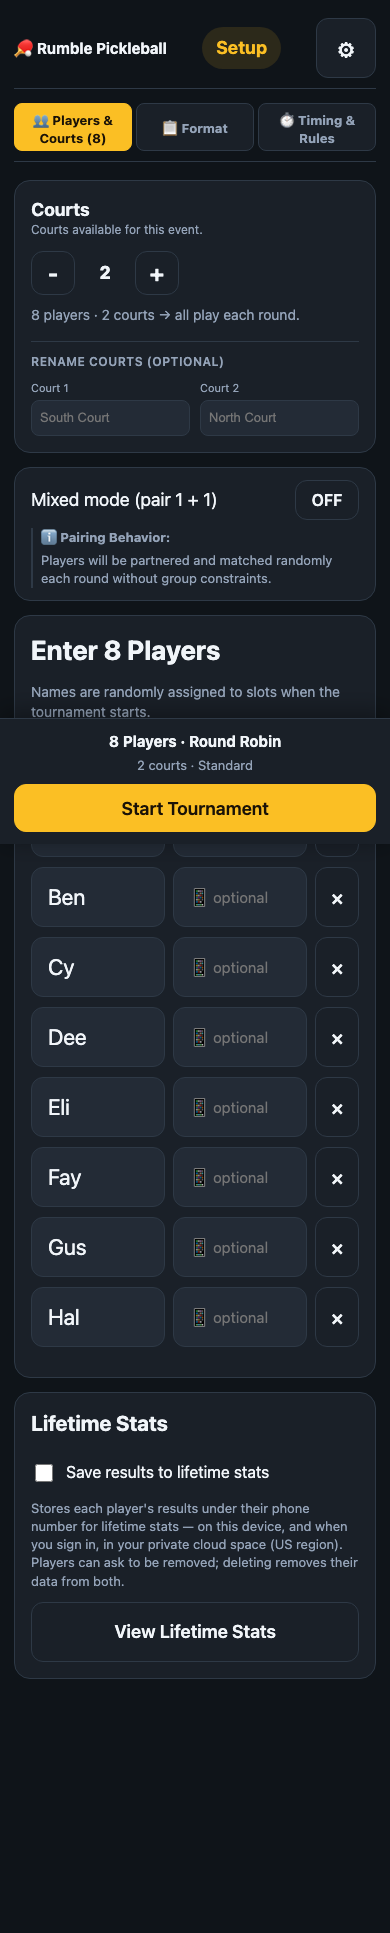
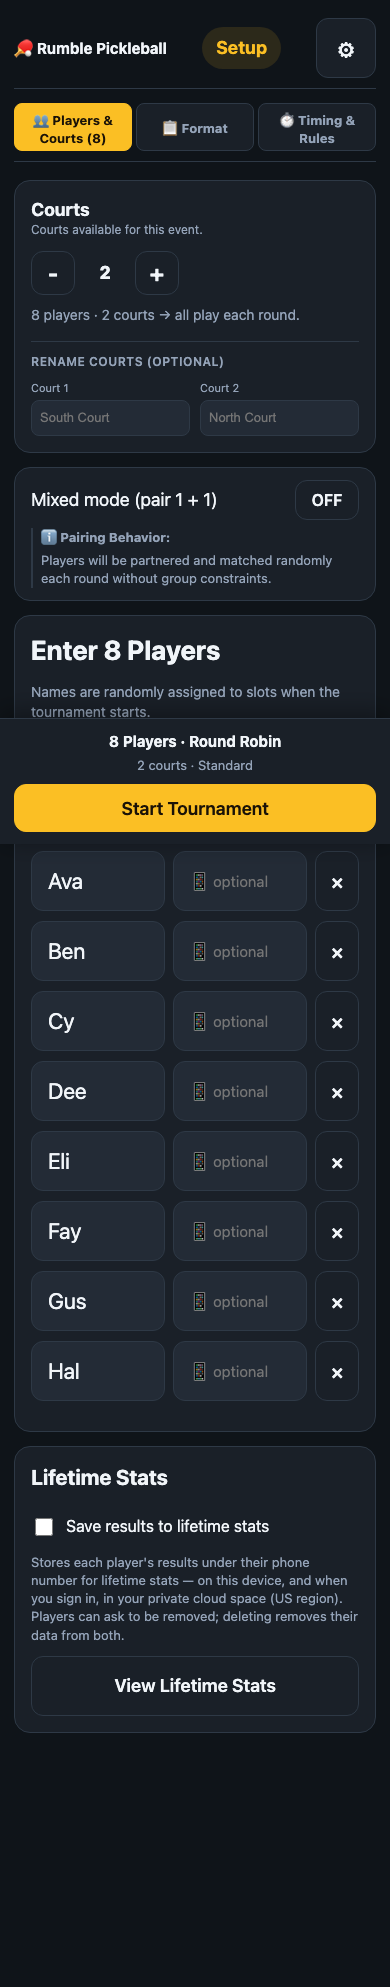
feat: implement Roster Manager tool with Club List and Saved Groups templates (#33)

diff --git a/index.html b/index.html
@@ -10494,6 +10494,286 @@ function parsePastedNames(text, count) {
   setTimeout(() => textarea.focus(), 0);
 }
 
+function openRosterManagerModal() {
+  const bg = el("div", { class: "modal-bg" });
+  const close = () => { bg.remove(); };
+  bg.addEventListener("click", e => { if (e.target === bg) close(); });
+
+  const modal = el("div", {
+    class: "modal",
+    style: "max-width: 420px; width: 90%; display: flex; flex-direction: column; max-height: 80vh; padding: 20px; box-sizing: border-box;"
+  });
+
+  const header = el("div", { style: "display:flex; align-items:center; justify-content:space-between; margin-bottom:16px;" },
+    el("h2", { style: "margin:0; font-size:18px;" }, "Roster Manager"),
+    el("button", {
+      style: "background:transparent; border:none; color:var(--muted); font-size:22px; cursor:pointer; padding:0; line-height:1;",
+      onclick: close
+    }, "×")
+  );
+  modal.appendChild(header);
+
+  let activeTab = "club";
+  const tabsContainer = el("div", { class: "setup-tabs", style: "margin-bottom:16px; padding:2px; height:38px;" });
+  
+  const clubTabBtn = el("button", { class: "setup-tab-btn active", style: "font-size:13px;" }, "Club List");
+  const groupsTabBtn = el("button", { class: "setup-tab-btn", style: "font-size:13px;" }, "Saved Groups");
+  
+  tabsContainer.appendChild(clubTabBtn);
+  tabsContainer.appendChild(groupsTabBtn);
+  modal.appendChild(tabsContainer);
+
+  const contentArea = el("div", { style: "flex:1; overflow-y:auto; min-height: 250px; display:flex; flex-direction:column;" });
+  modal.appendChild(contentArea);
+
+  const ledger = LifetimeStore.getLedger();
+  const playersMap = ledger.players || {};
+  const playersList = Object.values(playersMap).map(p => {
+    return { phoneKey: p.phoneKey, displayName: p.displayName || p.phoneKey };
+  }).sort((a, b) => a.displayName.localeCompare(b.displayName));
+
+  const checkedKeys = new Set();
+  
+  state.rawNames.forEach((name, idx) => {
+    if (name && name.trim()) {
+      const phone = state.rawPhones[idx] || "";
+      const match = playersList.find(p => {
+        if (phone && p.phoneKey === phone) return true;
+        return p.displayName.toLowerCase() === name.trim().toLowerCase();
+      });
+      if (match) checkedKeys.add(match.phoneKey);
+    }
+  });
+
+  let searchQuery = "";
+
+  function drawContent() {
+    contentArea.innerHTML = "";
+
+    if (activeTab === "club") {
+      clubTabBtn.classList.add("active");
+      groupsTabBtn.classList.remove("active");
+
+      const searchInput = el("input", {
+        type: "text",
+        placeholder: "Search players...",
+        value: searchQuery,
+        style: "width:100%; min-height:36px; font-size:13px; background:var(--panel-2); color:var(--text); border:1px solid var(--border); border-radius:8px; padding:4px 10px; margin-bottom:12px; box-sizing:border-box;"
+      });
+      searchInput.addEventListener("input", () => {
+        searchQuery = searchInput.value;
+        drawListOnly();
+      });
+      contentArea.appendChild(searchInput);
+
+      const listContainer = el("div", { style: "flex:1; overflow-y:auto; display:flex; flex-direction:column; gap:6px; margin-bottom:12px; max-height:220px;" });
+      contentArea.appendChild(listContainer);
+
+      const countBadge = el("div", { style: "font-size:12px; color:var(--muted); margin-bottom:8px; text-align:right; font-weight:600;" }, `Selected: ${checkedKeys.size} players`);
+      contentArea.appendChild(countBadge);
+
+      const loadBtn = el("button", {
+        style: "width:100%; min-height:40px; font-weight:700; font-size:14px; background:var(--accent); color:#1a1207; border:none; border-radius:8px; cursor:pointer;"
+      }, `Load Selected (${checkedKeys.size})`);
+      
+      loadBtn.addEventListener("click", () => {
+        const count = checkedKeys.size;
+        if (count < 4 || count > 24) {
+          showToast("Select between 4 and 24 players.");
+          return;
+        }
+        state.rawNames = [];
+        state.rawPhones = [];
+        state.rawGroups = [];
+        playersList.forEach(p => {
+          if (checkedKeys.has(p.phoneKey)) {
+            state.rawNames.push(p.displayName);
+            state.rawPhones.push(p.phoneKey !== p.displayName ? p.phoneKey : "");
+            state.rawGroups.push("a");
+          }
+        });
+        setSetupRosterCount(count);
+        save();
+        close();
+        render();
+        showToast(`Loaded ${count} players from Club List.`);
+      });
+      contentArea.appendChild(loadBtn);
+
+      function drawListOnly() {
+        listContainer.innerHTML = "";
+        const query = searchQuery.toLowerCase().trim();
+        const filtered = playersList.filter(p => p.displayName.toLowerCase().includes(query));
+
+        if (filtered.length === 0) {
+          listContainer.appendChild(el("div", { style: "text-align:center; padding:24px; color:var(--muted); font-size:13px; font-style:italic;" },
+            playersList.length === 0 ? "No players in career history yet. Save a tournament to build your club roster." : "No players match your search."
+          ));
+          return;
+        }
+
+        filtered.forEach(p => {
+          const row = el("label", {
+            style: "display:flex; align-items:center; gap:10px; background:var(--panel); border:1px solid var(--border); border-radius:8px; padding:10px 12px; cursor:pointer; margin-bottom:4px;"
+          });
+          
+          const chk = el("input", {
+            type: "checkbox",
+            style: "width:16px; height:16px; accent-color:var(--accent);"
+          });
+          if (checkedKeys.has(p.phoneKey)) chk.setAttribute("checked", "checked");
+          
+          chk.addEventListener("change", () => {
+            if (chk.checked) checkedKeys.add(p.phoneKey);
+            else checkedKeys.delete(p.phoneKey);
+            countBadge.textContent = `Selected: ${checkedKeys.size} players`;
+            loadBtn.textContent = `Load Selected (${checkedKeys.size})`;
+          });
+
+          row.appendChild(chk);
+          
+          const labelInfo = el("div", { style: "flex:1; display:flex; flex-direction:column;" });
+          labelInfo.appendChild(el("div", { style: "font-size:13px; font-weight:600; color:var(--text);" }, p.displayName));
+          if (p.phoneKey !== p.displayName) {
+            labelInfo.appendChild(el("div", { style: "font-size:11px; color:var(--muted);" }, p.phoneKey));
+          }
+          row.appendChild(labelInfo);
+          listContainer.appendChild(row);
+        });
+      }
+
+      drawListOnly();
+
+    } else {
+      clubTabBtn.classList.remove("active");
+      groupsTabBtn.classList.add("active");
+
+      let groups = [];
+      try {
+        groups = JSON.parse(localStorage.getItem("rumble_saved_roster_groups")) || [];
+      } catch {
+        groups = [];
+      }
+
+      const saveForm = el("div", { style: "background:var(--panel-2); border:1px solid var(--border); border-radius:8px; padding:12px; margin-bottom:16px;" });
+      saveForm.appendChild(el("h4", { style: "margin:0 0 8px; font-size:12px; font-weight:700; color:var(--text); text-transform:uppercase; letter-spacing:0.5px;" }, "Save Current Roster"));
+      
+      const saveRow = el("div", { style: "display:flex; gap:8px;" });
+      const nameInput = el("input", {
+        type: "text",
+        placeholder: "Roster Name (e.g. Tuesday League)",
+        style: "flex:1; min-height:36px; font-size:13px; background:var(--panel); color:var(--text); border:1px solid var(--border); border-radius:8px; padding:4px 8px; box-sizing: border-box;"
+      });
+      const saveBtn = el("button", {
+        style: "min-height:36px; background:var(--accent); color:#1a1207; border:none; border-radius:8px; font-weight:700; font-size:12px; padding:0 12px; cursor:pointer;"
+      }, "Save");
+      
+      saveBtn.addEventListener("click", () => {
+        const gName = nameInput.value.trim();
+        if (!gName) {
+          showToast("Please enter a roster name.");
+          return;
+        }
+        
+        const activePlayersCount = setupRosterCount();
+        const playersToSave = [];
+        for (let i = 0; i < activePlayersCount; i++) {
+          playersToSave.push({
+            name: state.rawNames[i] || "",
+            phone: state.rawPhones[i] || "",
+            group: state.rawGroups[i] || "a"
+          });
+        }
+
+        const newGroup = {
+          id: "group_" + Date.now(),
+          name: gName,
+          players: playersToSave
+        };
+        
+        groups.push(newGroup);
+        localStorage.setItem("rumble_saved_roster_groups", JSON.stringify(groups));
+        drawContent();
+        showToast(`Saved current roster as "${gName}".`);
+      });
+
+      saveRow.appendChild(nameInput);
+      saveRow.appendChild(saveBtn);
+      saveForm.appendChild(saveRow);
+      contentArea.appendChild(saveForm);
+
+      const listContainer = el("div", { style: "flex:1; overflow-y:auto; display:flex; flex-direction:column; gap:8px; max-height:180px;" });
+      contentArea.appendChild(listContainer);
+
+      if (groups.length === 0) {
+        listContainer.appendChild(el("div", { style: "text-align:center; padding:32px; color:var(--muted); font-size:13px; font-style:italic;" },
+          "No saved rosters yet. Type a name above to save your Tuesday or Thursday roster."
+        ));
+      } else {
+        groups.forEach(g => {
+          const card = el("div", {
+            style: "background:var(--panel); border:1px solid var(--border); border-radius:12px; padding:12px 14px; display:flex; align-items:center; justify-content:space-between; gap:12px; margin-bottom:6px;"
+          });
+          
+          const info = el("div", { style: "flex:1;" });
+          info.appendChild(el("div", { style: "font-size:14px; font-weight:700; color:var(--text);" }, g.name));
+          info.appendChild(el("div", { style: "font-size:11px; color:var(--muted); margin-top:2px;" }, `${g.players.length} players`));
+          card.appendChild(info);
+
+          const actionsRow = el("div", { style: "display:flex; gap:6px;" });
+          
+          const loadGroupBtn = el("button", {
+            style: "min-height:30px; background:var(--accent); color:#1a1207; border:none; border-radius:6px; font-weight:700; font-size:11px; padding:0 10px; cursor:pointer;"
+          }, "Load");
+          
+          loadGroupBtn.addEventListener("click", () => {
+            const count = g.players.length;
+            state.rawNames = [];
+            state.rawPhones = [];
+            state.rawGroups = [];
+            g.players.forEach(p => {
+              state.rawNames.push(p.name);
+              state.rawPhones.push(p.phone);
+              state.rawGroups.push(p.group);
+            });
+            setSetupRosterCount(count);
+            save();
+            close();
+            render();
+            showToast(`Loaded roster group "${g.name}".`);
+          });
+          
+          const deleteGroupBtn = el("button", {
+            style: "min-height:30px; border-radius:6px; font-weight:700; font-size:11px; padding:0 8px; cursor:pointer; color:#ff6b6b; border:1px solid #ff6b6b; background:transparent;"
+          }, "Delete");
+
+          deleteGroupBtn.addEventListener("click", () => {
+            showConfirm(`Delete roster group "${g.name}"?`, () => {
+              groups = groups.filter(item => item.id !== g.id);
+              localStorage.setItem("rumble_saved_roster_groups", JSON.stringify(groups));
+              drawContent();
+              showToast(`Deleted group "${g.name}".`);
+            });
+          });
+
+          actionsRow.appendChild(loadGroupBtn);
+          actionsRow.appendChild(deleteGroupBtn);
+          card.appendChild(actionsRow);
+
+          listContainer.appendChild(card);
+        });
+      }
+    }
+  }
+
+  clubTabBtn.addEventListener("click", () => { activeTab = "club"; drawContent(); });
+  groupsTabBtn.addEventListener("click", () => { activeTab = "groups"; drawContent(); });
+
+  drawContent();
+  bg.appendChild(modal);
+  mountModal(bg, modal);
+}
+
 const TOURNAMENT_TEMPLATES = [
   { id: "lunch-45",          title: "Lunch Break 45",    goal: "fast",        blurb: "4 quick rounds, 45-min budget." },
   { id: "club-90",           title: "Club Night 90",     goal: "balanced",    blurb: "Full Round Robin, 90-min budget." },
@@ -12056,6 +12336,13 @@ function getRoundStatistics(format, rounds, players, courts) {
       onclick: openPasteModal,
     }, "Paste " + playerCount + " names");
     actions.appendChild(pasteLink);
+
+    const savedRostersBtn = el("button", {
+      onclick: openRosterManagerModal,
+      style: "margin-left: 6px;"
+    }, "👥 Saved Rosters");
+    actions.appendChild(savedRostersBtn);
+
     card.appendChild(actions);
 
     const list = el("div", { class: "setup-list" });

diff --git a/sw.js b/sw.js
@@ -3,7 +3,7 @@
 // delete by "everything that isn't the current version".
 const CACHE_PREFIX = "rumble-pickleball-";
 // Bump VERSION on every deploy so clients pick up changes.
-const VERSION = CACHE_PREFIX + "v22";
+const VERSION = CACHE_PREFIX + "v23";
 const SHELL = [
   "./",
   "index.html",